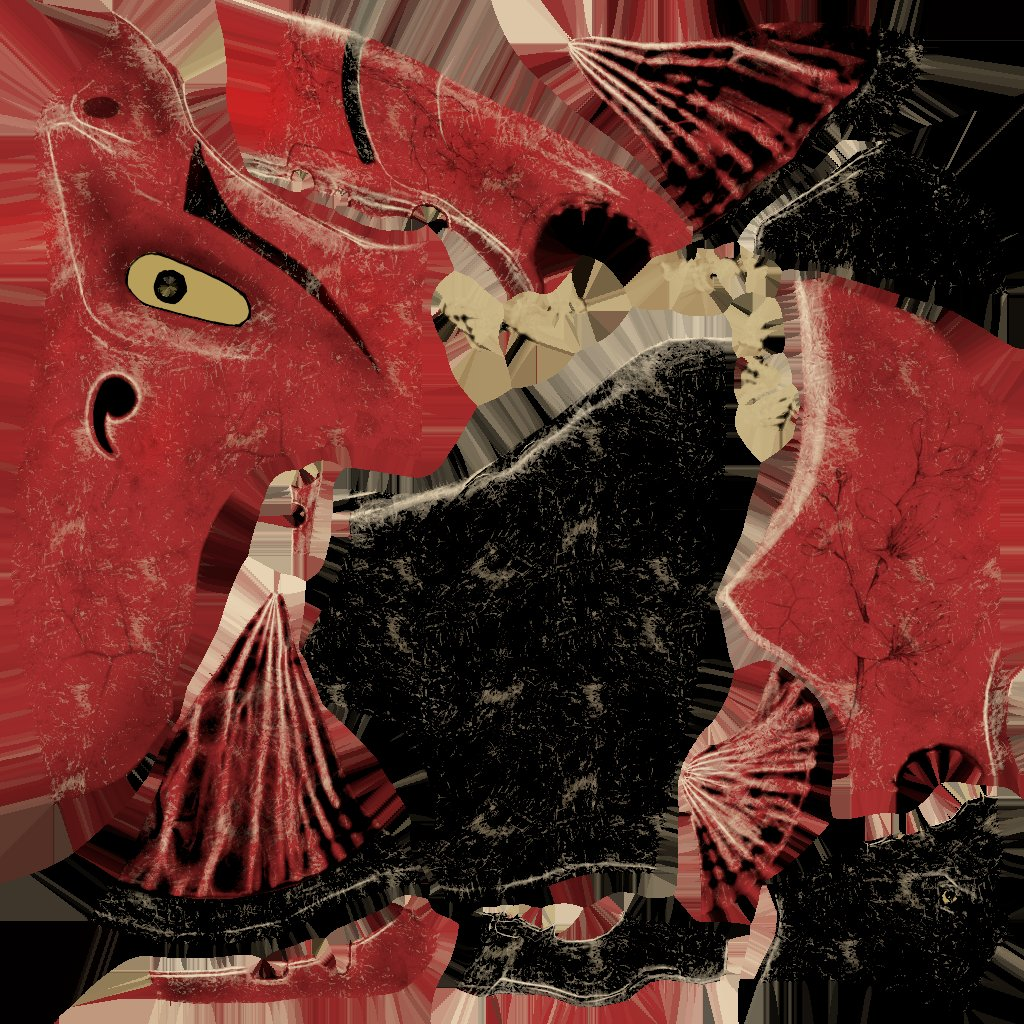
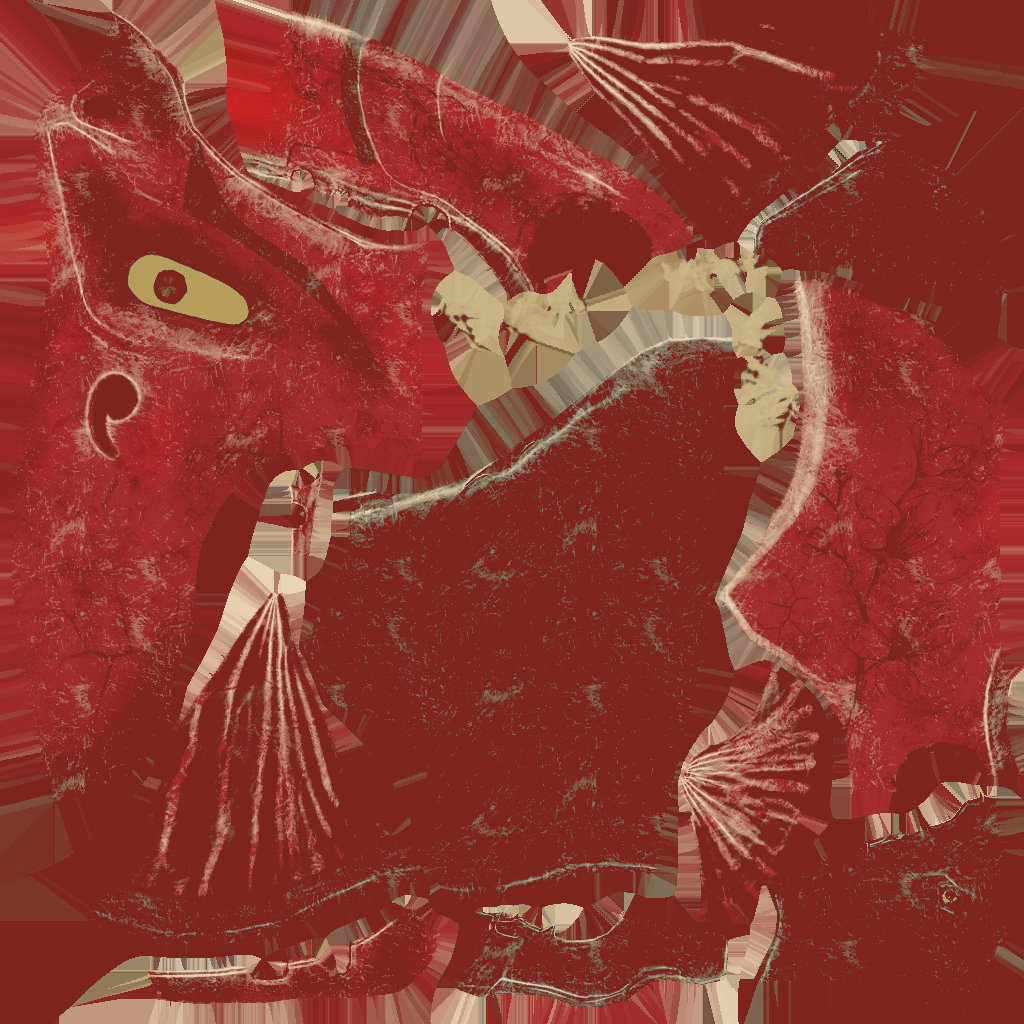
assets(enemies): larger demon mask, red lacquer floor (N3 fix2)
Re-baked at 0.22 m wide (x1.25) with the nose at 0.155 m. Albedo floor
lifts the near-black UV islands to dark cinnabar, so the face reads red
instead of sparkling black. The bake takes optional width and depth.
1 700 triangles.

diff --git a/tools/bake_yokai_mask.py b/tools/bake_yokai_mask.py
@@ -2,6 +2,7 @@
 # Run with Blender headless (Blender 4.x, the glTF importer/exporter built in):
 #   blender -b --factory-startup -P tools/bake_yokai_mask.py -- SRC.glb OUT.glb OUT_DIR TRIS
 #   e.g. TRIS=1700 -> ~1.7k triangles; the textures go to OUT_DIR as yokai_mask_{albedo,orm,normal}.png
+#   optional: WIDTH (m) and FRONT (m), defaults 0.176 and 0.135 (the N3 first bake)
 # Note: the trailing `--` separates Blender's own arguments from ours.
 # Source: face +X, up +Z, units arbitrary. Output (Godot frame): face +Z, up +Y, metres,
 # centred on the head origin with the nose at z=FRONT and the flange inside the skull.
@@ -9,8 +10,12 @@ import bpy, sys, math
 from mathutils import Matrix, Vector
 argv = sys.argv; a = argv[argv.index("--") + 1:]
 src, dst_glb, dst_dir, target_tris = a[0], a[1], a[2], int(a[3])
-WIDTH = 0.176   # m across the cheeks (source Y span)
-FRONT = 0.135   # m: the nose tip sits this far in front of the head origin (Godot +Z)
+WIDTH = 0.176   # m across the cheeks (source Y span); default, see the optional 5th argument
+FRONT = 0.135   # m: the nose tip sits this far in front of the head origin (Godot +Z); optional 6th argument
+if len(a) > 4:
+    WIDTH = float(a[4])
+if len(a) > 5:
+    FRONT = float(a[5])
 CENTER_Y = -0.012
 bpy.ops.wm.read_factory_settings(use_empty=True)
 bpy.ops.import_scene.gltf(filepath=src)

diff --git a/tools/retexture_yokai_mask.py b/tools/retexture_yokai_mask.py
@@ -1,0 +1,30 @@
+#!/usr/bin/env python3
+"""Lifts the near-black islands of the yōkai mask albedo to a dark cinnabar floor (N3 fix2).
+
+The baked albedo (tools/bake_yokai_mask.py) keeps the source's red lacquer and ivory, but its
+UV layout has large near-black islands; the face maps onto one, and it renders as sparkling
+black. Every texel below the floor is raised to the floor colour, so the lacquer stays red and
+the ivory stays ivory. Nothing else changes.
+
+  python3 tools/retexture_yokai_mask.py assets/models/enemies/yokai_mask_albedo.png
+Needs Pillow and numpy.
+"""
+import sys
+
+import numpy as np
+from PIL import Image
+
+FLOOR = np.array([125, 36, 30], dtype=np.float32)  # dark cinnabar, sRGB
+
+
+def main() -> None:
+    path = sys.argv[1]
+    img = Image.open(path).convert("RGB")
+    a = np.asarray(img).astype(np.float32)
+    out = np.maximum(a, FLOOR)
+    Image.fromarray(out.clip(0, 255).astype(np.uint8)).save(path)
+    print("floor applied to", path, "texels lifted:", int((out != a).any(axis=2).sum()))
+
+
+if __name__ == "__main__":
+    main()

diff --git a/LICENSES.md b/LICENSES.md
@@ -37,7 +37,7 @@ Update this file whenever an asset or plugin is added (see `docs/GDD.md`, sectio
 | `assets/models/environment/forest_trees/scots_pine.glb` (forest pine, D5) | https://sketchfab.com/3d-models/scots-pine-trees-set-422b961ff3d14e7baa7e9077572b2247 | Maksim Batyrev | **CC BY 4.0**, modified (one tree of the set cut out, scaled to metres, atlas, `tools/prep_forest_assets.py`); credited in `CREDITS.md` and in game |
 | `assets/models/environment/forest_trees/giant_redwood.glb` (forest sugi, D5) | https://sketchfab.com/3d-models/giant-redwood-1a2052c58869479eb7b204d5cdc7c63a | rhcreations | **CC BY 4.0**, modified (decimated 14k to 6k triangles, textures packed into one 2K atlas, `tools/prep_forest_assets.py`); credited in `CREDITS.md` and in game |
 | `assets/textures/forest_ground/moss002/moss002_diff_1k.jpg`, `moss002_nor_gl_1k.jpg` (ground moss, D5) | https://ambientcg.com/view?id=Moss002 | ambientCG (Lennart Demes) | CC0 1.0 |
-| `assets/models/enemies/yokai_mask.glb`, `yokai_mask_albedo.png`, `yokai_mask_orm.png`, `yokai_mask_normal.png`, `ONI_MASK_LICENSE.txt` | https://sketchfab.com/3d-models/japanese-demon-mask-da21beea26034da9b889ec075bec6207, baked by `tools/bake_yokai_mask.py` | Eques_inferno | CC BY 4.0 — modified (decimated to 1.7k tris, retextured at 1K) |
+| `assets/models/enemies/yokai_mask.glb`, `yokai_mask_albedo.png`, `yokai_mask_orm.png`, `yokai_mask_normal.png`, `ONI_MASK_LICENSE.txt` | https://sketchfab.com/3d-models/japanese-demon-mask-da21beea26034da9b889ec075bec6207, baked by `tools/bake_yokai_mask.py`, albedo floor by `tools/retexture_yokai_mask.py` | Eques_inferno | CC BY 4.0 — modified (decimated to 1.7k tris, retextured at 1K) |
 | `assets/models/enemies/oni_body_run.glb`, `oni_kanabo_run.glb` | `tools/gen_oni_body_glb.py` | Jakub Frączek (HANABI) | CC0 1.0 (§21 procedural boss shell) |
 | `assets/fonts/YujiBoku-Regular.ttf` | https://github.com/google/fonts/tree/main/ofl/yujiboku | Kinuta Font Factory | SIL OFL 1.1 (`assets/fonts/LICENSE.txt`) |
 | `assets/fonts/Cinzel-Variable.ttf`, `OFL-Cinzel.txt` | https://github.com/google/fonts/tree/main/ofl/cinzel | The Cinzel Project Authors (Natanael Gama) | SIL OFL 1.1 (`assets/fonts/OFL-Cinzel.txt`); free, no attribution required in game, 125 KB |
